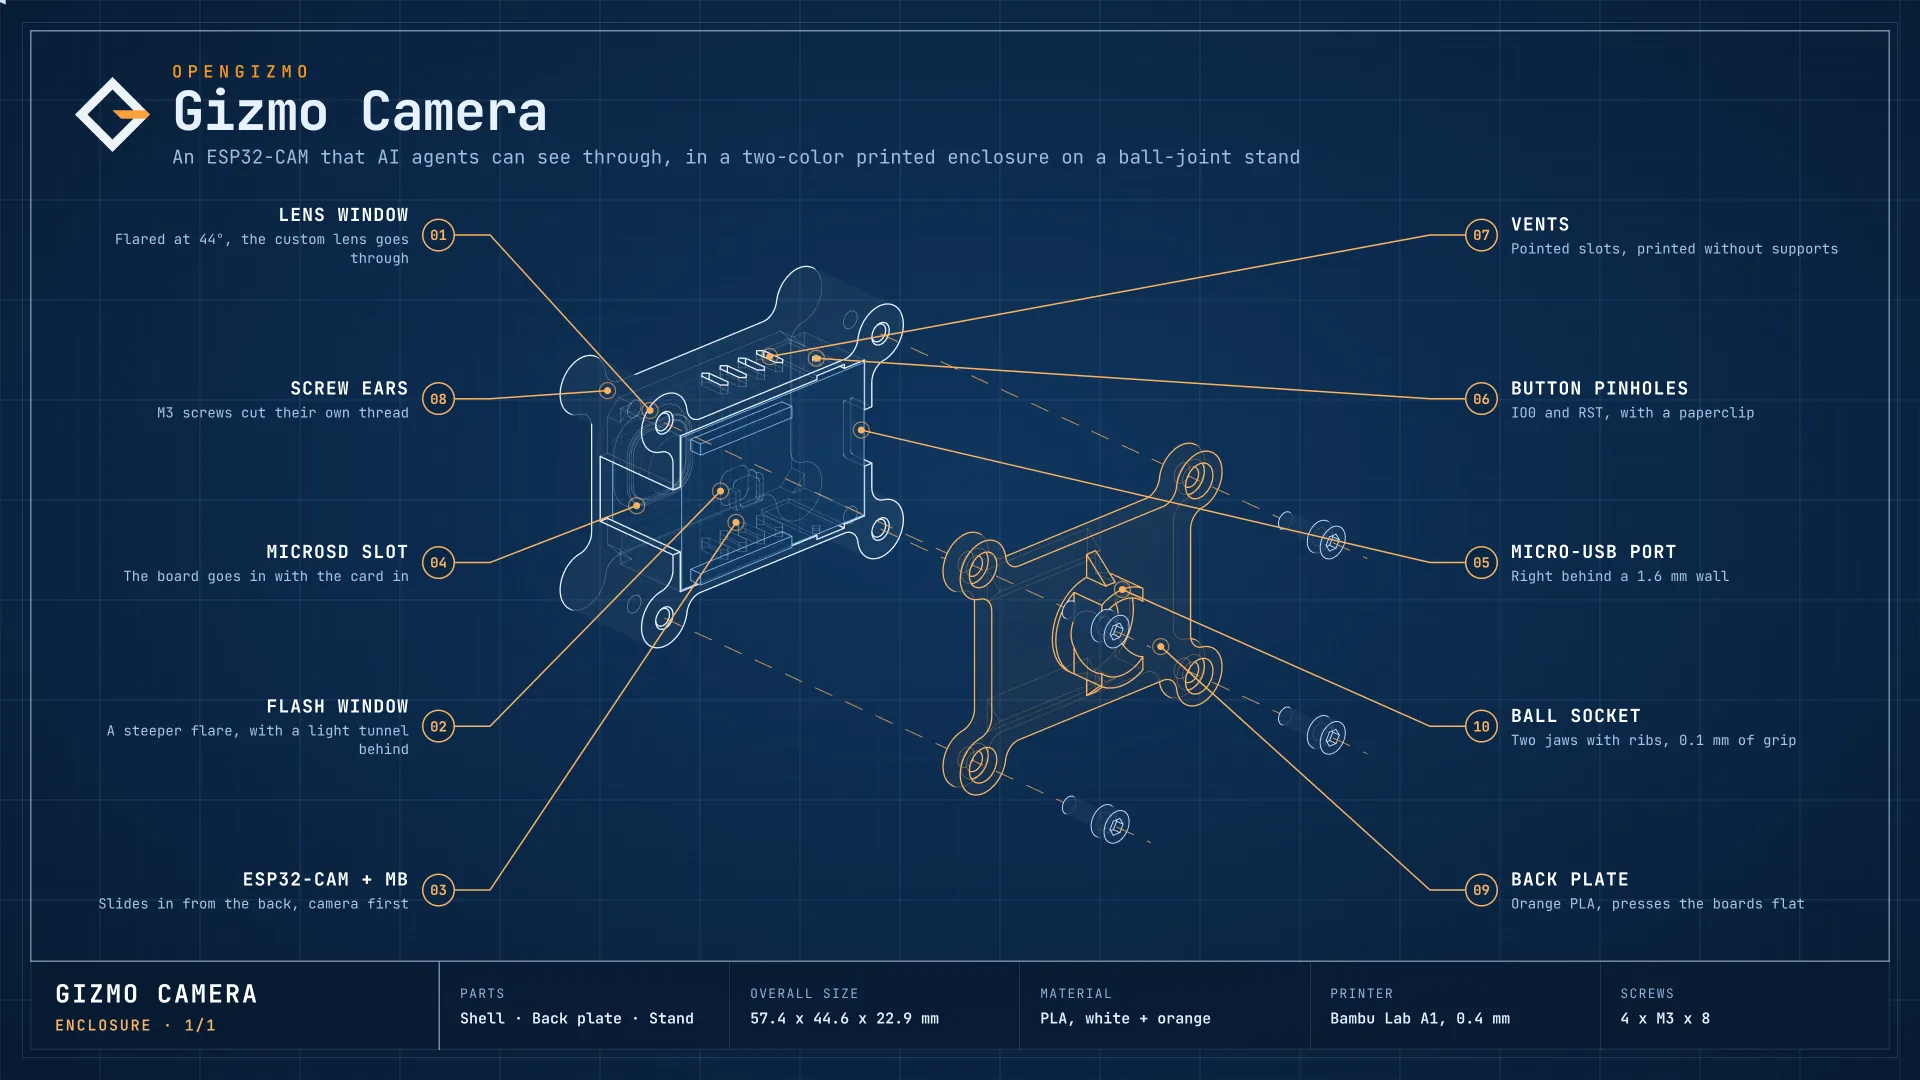
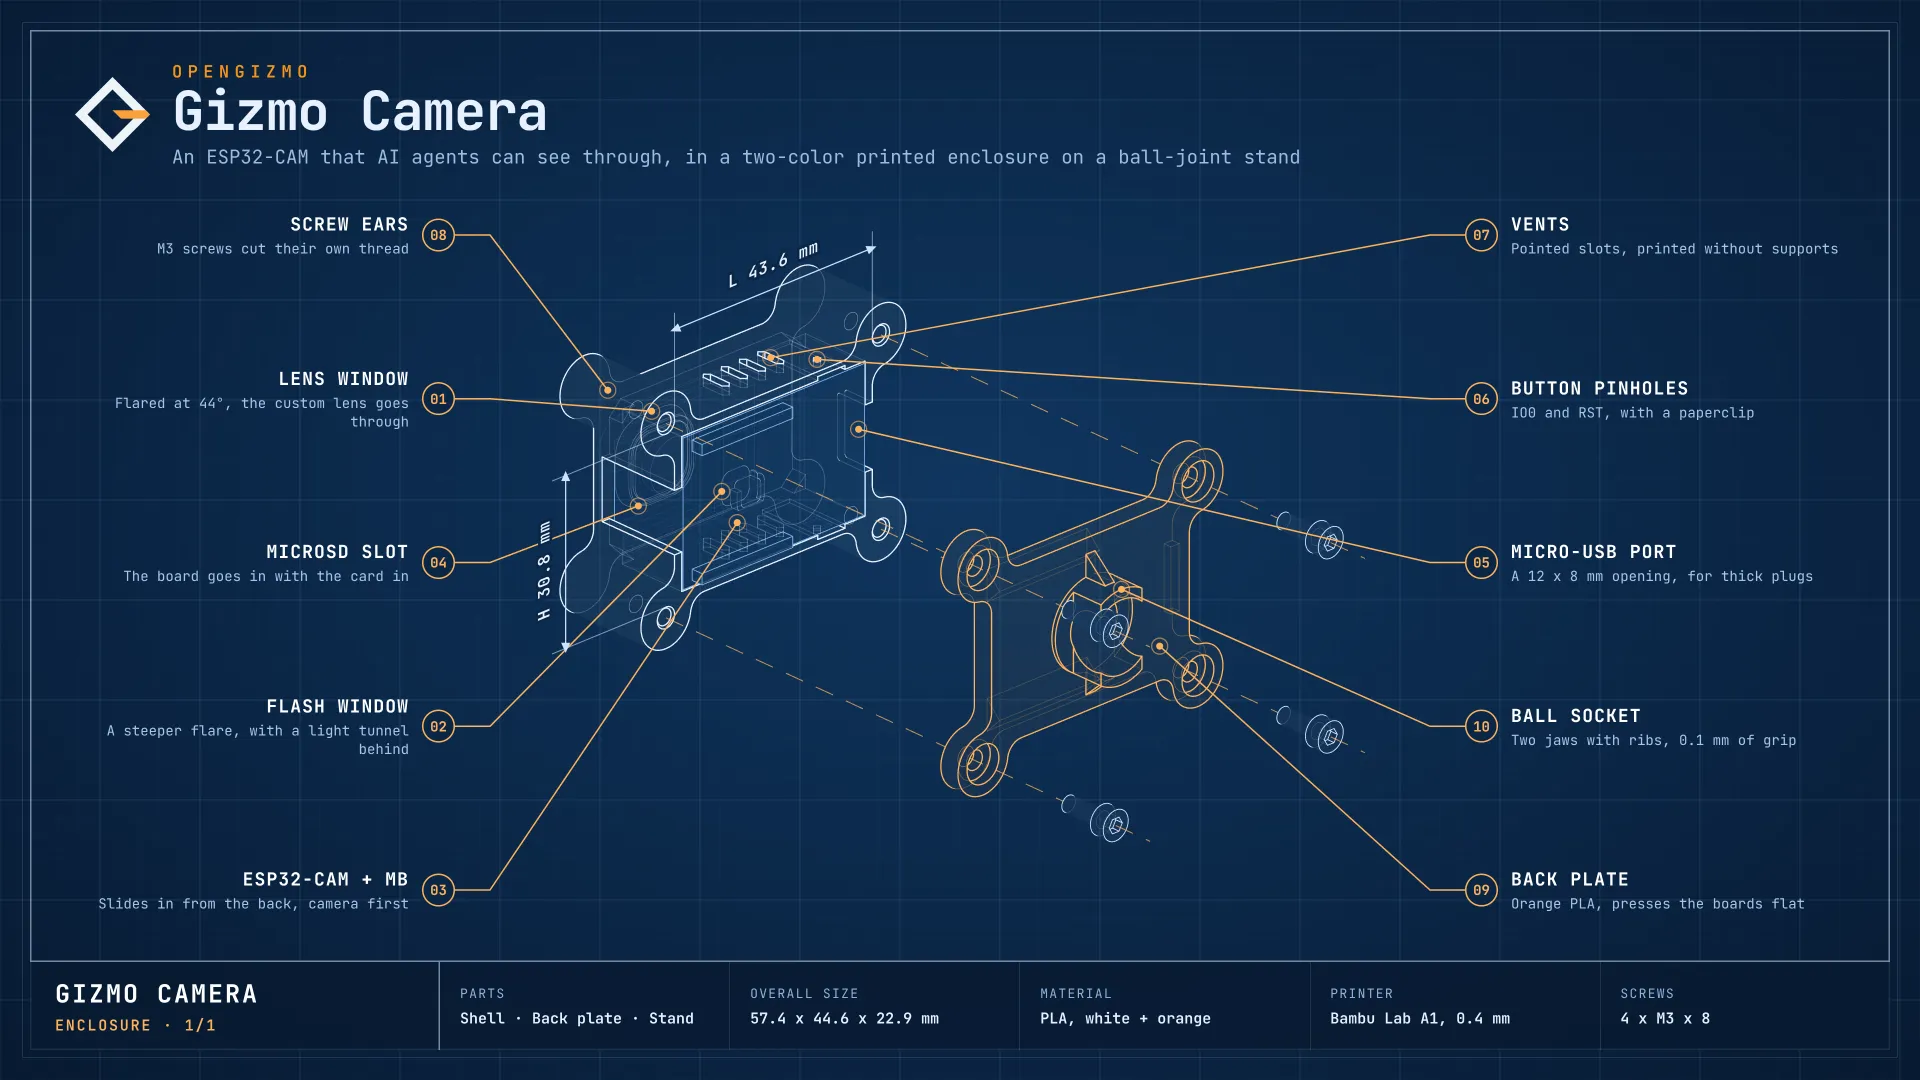
README: the enclosure images with the bigger USB opening
The changelog says makers can reprint the shell and the back plate for
cables with a thick plug; the firmware does not change.

Claude-Session: https://claude.ai/code/session_01Beyeb2xcYo4sUDfnMUke3u

diff --git a/CHANGELOG.md b/CHANGELOG.md
@@ -4,6 +4,8 @@ What changed in each release. New notes go under **Unreleased** while the work i
 
 ## Unreleased
 
+- The printed enclosure has a bigger micro-USB opening (12 × 8 mm instead of 10 × 5 mm) and a matching notch in the back plate, so cables with a thick plug reach the port. Reprint the shell and the back plate to get it; the firmware does not change.
+
 ## v1.1.0 - 2026-11-14
 
 - The **Flash** switch on the Camera page now says that the flash fires during the snapshot: switching it on doesn't light the LED by itself, the next snapshot does. Flash the new firmware to see the hint.
